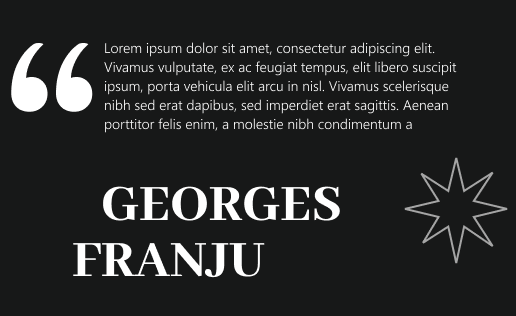
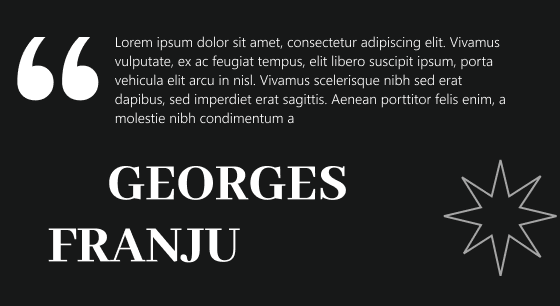
feat: alterações no responsivo

diff --git a/index.html b/index.html
@@ -138,8 +138,8 @@
         <!-- produtos mubi -->
         <section id="produtos">
             <div class="container">
-                <div class="row">
-                    <div class="col-lg-12 col-sm-12 mb-3 produtos border-bottom d-flex align-items-baseline">
+                <div class="row" style="margin: auto !important;">
+                    <div class="col-lg-12 col-sm-12 mb-3 produtos d-flex align-items-baseline">
                         <h2>
                             Just Reviewed
                         </h2>
@@ -147,6 +147,7 @@
                             POPULAR REVIEWS THIS WEEK
                         </p>
                     </div>
+                    <div class="custom-border"></div>
                     <div class="col-lg-1 col-md-2 col-sm-3 col-xs-3 produto-sub-item">
                         <img src="./img/film-1.jpg" alt="">
                     </div>
@@ -183,7 +184,7 @@
                     <div class="col-lg-1 col-md-2 col-sm-3 col-xs-3 produto-sub-item">
                         <img src="./img/film-12.jpg" alt="">
                     </div>
-                    <div class="col-lg-12 col-sm-12 mb-3 produtos border-bottom d-flex align-items-baseline">
+                    <div class="col-lg-12 col-sm-12 mb-3 produtos d-flex align-items-baseline">
                         <h2>
                             Quintessential Reads
                         </h2>
@@ -191,6 +192,7 @@
                             ALL TIME READS
                         </p>
                     </div>
+                    <div class="custom-border"></div>
                     <div class="col-lg-1 col-md-2 col-sm-3 col-xs-3 produto-sub-item">
                         <img src="./img/film-13.jpg" alt="">
                     </div>

diff --git a/main.css b/main.css
@@ -63,7 +63,7 @@ section .cadastro {
 
 #contato .auteur-quote {
     display: flex;
-    justify-content: center;
+    justify-content: flex-end;
 }
 
 header {
@@ -175,7 +175,7 @@ header {
 }
 
 .auteur-quote img {
-    height: 17em;
+    height: 20em;
 }
 
 .auteur-photos img {
@@ -266,9 +266,18 @@ form input {
         justify-content: center;
     }
 
+    #produtos .row {
+        margin: auto !important;
+    }
+
     .auteur-quote img {
         height: 13em;
-        max-width: 20em;
+        width: 100%;
+    }
+
+    .auteur-photos img {
+        height: 15em;
+        width: 100%;
     }
 
     .banner-read-more{
